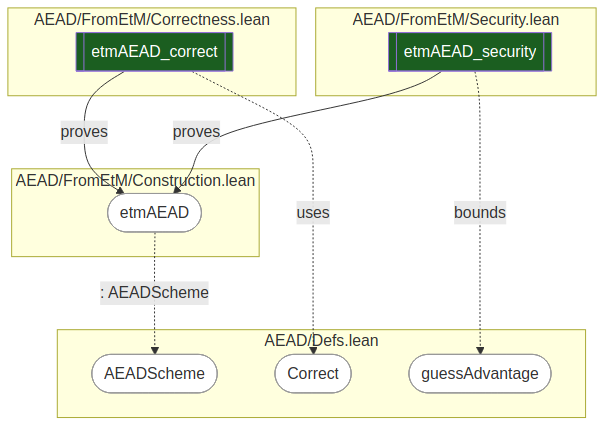
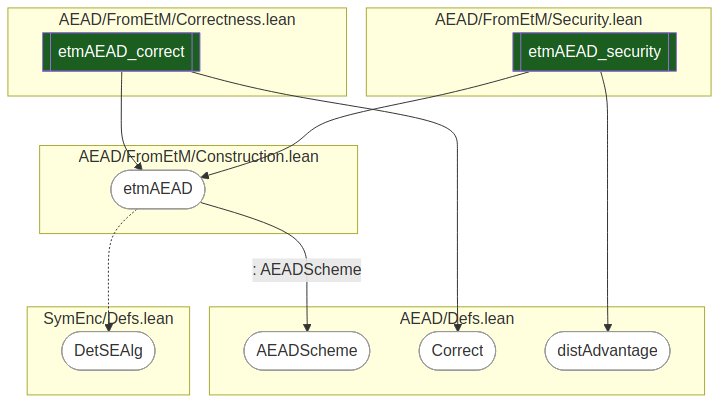
docs: draw only data-backed edges in the secure-messaging diagram
The old diagram had a "bounds" edge to guessAdvantage that is not a real
dependency (etmAEAD_security references distAdvantage, not guessAdvantage),
and "proves"/"uses" labels the probe never emits. Redraw with only edges
the extract records: solid = reference in the type/statement
(type-dependencies), dotted = reference in the body/proof
(term-dependencies). Fix the target to distAdvantage, add DetSEAlg
(SymEnc/Defs.lean) as a real term-dep of etmAEAD, and explain the edge
convention on the slide. Audit of the other diagrams: aeneas uses
translation-name / primary-spec edges (backed); lean-zip/cedar/loom
remain illustrative with calls/spec/uses edge types.

diff --git a/docs/slides-lean-verification-landscape.md b/docs/slides-lean-verification-landscape.md
@@ -94,8 +94,9 @@ Grounded in `baif/secure-messaging`. The construction and the property definitio
 
 ![w:700](img/vcvio.png)
 
-- `AEADScheme` (a structure), the construction `etmAEAD` that instantiates it, and the properties `Correct` and `guessAdvantage` are all definitions: White, nothing to prove on their own.
-- `etmAEAD_correct` and `etmAEAD_security` are <span style="color:#1B5E20">transitively verified</span> theorems that prove the construction meets `Correct` and bounds `guessAdvantage`.
+- Nodes: `AEADScheme` (a structure), the construction `etmAEAD` that instantiates it, and the properties `Correct` and `distAdvantage` are definitions (White); `etmAEAD_correct` and `etmAEAD_security` are <span style="color:#1B5E20">transitively verified</span> theorems.
+- Edges are only what the probe actually records: a **solid** arrow is a reference in the atom's type/statement (`type-dependencies`), a **dotted** arrow is a reference in its body/proof (`term-dependencies`). So `etmAEAD : AEADScheme` and each theorem's statement mentioning `etmAEAD` are solid; `etmAEAD`'s body calling `DetSEAlg` is dotted.
+- The probe does **not** label an edge "proves" or "bounds" — that is human interpretation, not extracted data.
 - Every node's subgraph names the file (all under `SecureMessaging/`) where the atom lives.
 
 ---